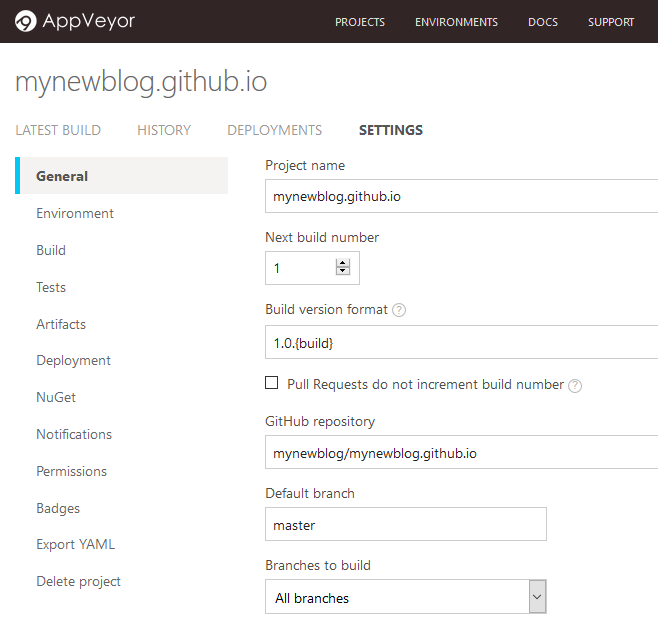
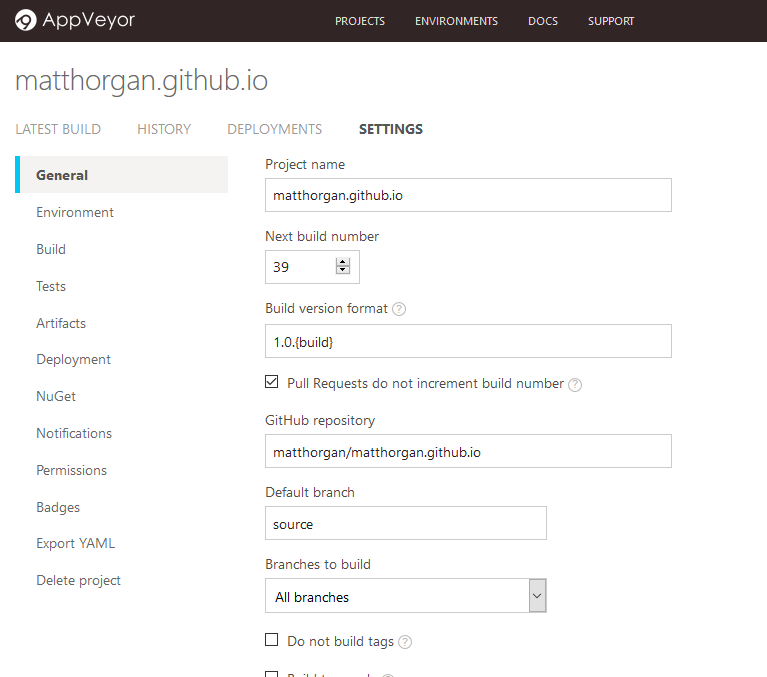
Change AppVeyor settings image Continue with Hugo blog post

diff --git a/content/blog/hugo-and-appveyor-goodness.md b/content/blog/hugo-and-appveyor-goodness.md
@@ -117,12 +117,60 @@ At this point, we have two options on how we want to configure the project. You 
 
 You can see from the menu in the above screenshot that there are so many possibilities when it comes to the configuration of your project. A cool feature of the UI is that you can export to an appveyor.yml file which makes it really easy to understand what's going on. Another great way to understand all of the possible settings within an appveyor.yml file is to check out this reference guide [here](https://www.appveyor.com/docs/appveyor-yml/).  
 *Note: The UI and appveyor.yml are mutually exclusive so you'll have to pick one or the other.*
-<br><br>
-
-With so many options available, it's important to understand exactly what you want your build to accomplish. To stop me from going off on a tangent, I put together some basic pseudo code logic for what I needed AppVeyor to do: 
 
 
+With so many options available, it's important to understand exactly what you want your build to accomplish. To stop me from going off on a tangent, I put together a basic flow for what I needed AppVeyor to do: 
 
+1. Clone the 'source' branch into the AppVeyor build 
+2. Set up environment by installing Hugo
+3. Build site with Hugo  
+4. Clone 'master' branch of GitHub Pages repo
+5. Copy all newly generated content into the newly cloned 'master' directory 
+6. Add and commit new files to 'master' branch 
+7. Push new commits back up to master 
 
+If you have a look back at the screenshot of the AppVeyor settings, you can see an option to specify a default branch. I set this to source which took care of point 1 in my flow. 
+
+Below is the final appveyor.yml file that I ended up with (I'll explain it in more detail shortly). I pushed this to my 'source' branch which instructs AppVeyor to execute the build every time something new is pushed to the source branch e.g. a new blog post. 
+
+```yaml
+version: 1.0.{build}
+
+pull_requests:
+  do_not_increment_build_number: true
+
+environment:
+  source_dir: public
+  git_name: Matt Horgan
+  git_email: matt@matthorgan.xyz
+  target_dir: temp
+  target_branch: master
+  repo: https://github.com/matthorgan/matthorgan.github.io.git
+  access_token:
+    secure: RcRrztcM59Im5xl40yelyNPtMZ8ydkEtFQ8nzen+4tcId4U8eT8yrTxTDOyUnJZu
+
+install:
+  - cmd: cinst hugo
+
+build_script:
+  - cmd: hugo
+
+test: off
+
+# Add newly built site to the master branch 
+on_success:
+ - ps: Invoke-Expression "git config --global credential.helper store" 2>&1 
+ - ps: Add-Content "$env:userprofile\.git-credentials" "https://$($env:access_token):x-oauth-basic@github.com`n"
+ - ps: $revision = Invoke-Expression "git rev-parse HEAD" 2>&1 
+ - ps: New-Item -Path $env:target_dir -ItemType Directory
+ - ps: cd .\$env:target_dir
+ - ps: Invoke-Expression "git clone --branch $env:target_branch $env:repo (Get-Location).Path" 2>&1 
+ - ps: Copy-Item -Path ..\$env:source_dir\* -Destination . -Recurse -Force -Exclude @(".git","appveyor.yml")
+ - ps: Invoke-Expression "git config --global user.name $env:git_name" 2>&1
+ - ps: Invoke-Expression "git config --global user.email $env:git_email" 2>&1
+ - ps: Invoke-Expression "git add --all" 2>&1
+ - ps: Invoke-Expression "git commit --allow-empty -m 'Built from commit $revision'" 2>&1
+- ps: Invoke-Expression "git push origin $env:target_branch" 2>&1 
+```
 
 ## Step 4. Setting up a custom domain with GitHub Pages (Optional)
